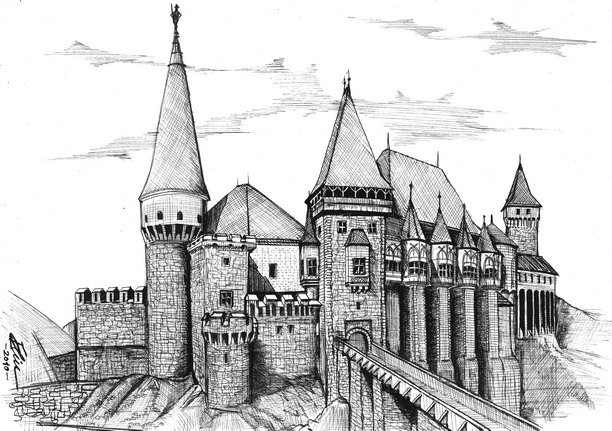
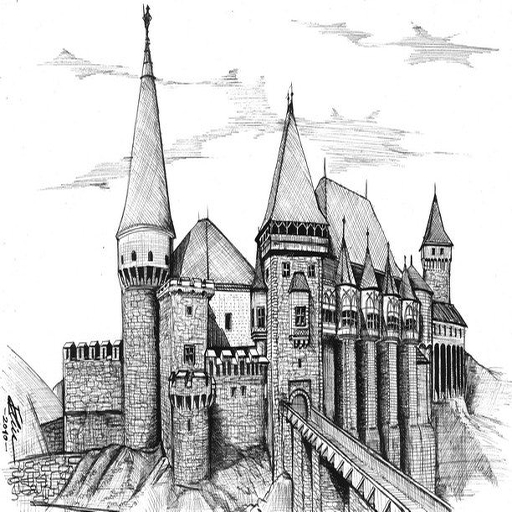
Bugfix and added graphics Replaced all sprite sheets Fixed polling error Attempted to add background picture, TODO!

diff --git a/Simple Frame/main.cpp b/Simple Frame/main.cpp
@@ -7,40 +7,38 @@
 #include "InputHandler.h"
 #include "Player.h"
 
-static const unsigned int WINDOW_WIDTH  = 1420;
-static const unsigned int WINDOW_HEIGHT = 805;
-
-
-
-
+static const unsigned int WINDOW_WIDTH  = 512;
+static const unsigned int WINDOW_HEIGHT = 512;
 
 
 int main()
 {
 		// ----- INITIALIZE ----- //
 
-		sf::Sprite image(ResourceManager::getTexture("image.jpg"));
-		sf::FloatRect imageSize = image.getLocalBounds();
+		// Create a window
+		sf::RenderWindow window(sf::VideoMode(WINDOW_WIDTH, WINDOW_HEIGHT), "<generic window name>");
+		window.setFramerateLimit(144);
+		window.setVerticalSyncEnabled(true);
+
+		sf::Sprite backgroundImage(ResourceManager::getTexture("image.jpg"));
+		sf::FloatRect imageSize = backgroundImage.getLocalBounds();
 		int input = 0;
 		InputHandler inputHandler;
 		Player player;
 
-		// Create a window
-		sf::RenderWindow window(sf::VideoMode(WINDOW_WIDTH, WINDOW_HEIGHT), "<generic window name>");
-    
-
     while (window.isOpen())
     {
         sf::Event event;
-        while (window.pollEvent(event))
-        {
+		while (window.pollEvent(event)){}
 
 			// ----- MAIN LOOP ----- //
 
 			// Check for termination, exit loop if true
-			if (event.type == sf::Event::Closed || input == Input::ESCAPE)
-                window.close();
-
+			if (event.type == sf::Event::Closed || input == InputHandler::Input::ESCAPE)
+			{
+				window.close();
+			}
+                
 			// Check for input
 			input = inputHandler.update();
 
@@ -48,9 +46,11 @@ int main()
 			player.update(input);
 
 
-        }
 
         window.clear();
+
+		// Draw background
+		window.draw(backgroundImage);
 
 		// Draw player
 		player.draw(&window);

diff --git a/Simple Frame/InputHandler.cpp b/Simple Frame/InputHandler.cpp
@@ -16,48 +16,49 @@ InputHandler::~InputHandler()
 // Check and handle keyboard input
 int InputHandler::update()
 {
-	int input = Input::NONE;
+	// Reset input
+	int input = InputHandler::Input::NONE;
 
 	std::string dbgout;
-	if(sf::Keyboard::isKeyPressed(sf::Keyboard::Left))
+	if (sf::Keyboard::isKeyPressed(sf::Keyboard::A))
 	{
-		input += Input::LEFT;
+		input += InputHandler::Input::LEFT;
 		dbgout += "LEFT ";
 	}
 
-	if(sf::Keyboard::isKeyPressed(sf::Keyboard::Right))
+	if (sf::Keyboard::isKeyPressed(sf::Keyboard::D))
 	{
-		input += Input::RIGHT;
+		input += InputHandler::Input::RIGHT;
 		dbgout += "RIGHT ";
 	}
 
-	if(sf::Keyboard::isKeyPressed(sf::Keyboard::Return))
+	if (sf::Keyboard::isKeyPressed(sf::Keyboard::Return))
 	{
-		input += Input::CONFIRM;
+		input += InputHandler::Input::CONFIRM;
 		dbgout += "CONFIRM ";
 	}
 	
-	if(sf::Keyboard::isKeyPressed(sf::Keyboard::Escape))
+	if (sf::Keyboard::isKeyPressed(sf::Keyboard::Escape))
 	{
-		input += Input::ESCAPE;
+		input += InputHandler::Input::ESCAPE;
 		dbgout += "ESCAPE ";
 	}
 
-	if(sf::Keyboard::isKeyPressed(sf::Keyboard::Space))
+	if (sf::Keyboard::isKeyPressed(sf::Keyboard::Space))
 	{
-		input += Input::SPACE;
+		input += InputHandler::Input::SPACE;
 		dbgout += "SPACE ";
 	}
 
-	if(sf::Keyboard::isKeyPressed(sf::Keyboard::Up))
+	if (sf::Keyboard::isKeyPressed(sf::Keyboard::W))
 	{
-		input += Input::UP;
+		input += InputHandler::Input::UP;
 		dbgout += "UP ";
 	}
 
 	if(sf::Keyboard::isKeyPressed(sf::Keyboard::Down))
 	{
-		input += Input::DOWN;
+		input += InputHandler::Input::DOWN;
 		dbgout += "DOWN ";
 	}
 

diff --git a/Simple Frame/Player.cpp b/Simple Frame/Player.cpp
@@ -3,10 +3,10 @@
 #include "ResourceManager.h"
 
 
-const float walkSpeed = 6;
-const float jumpSpeed = -24;
-static const float gravity = 1.1;
-static const float terminalVelocity = 15;
+const float walkSpeed = 1.5;
+const float jumpSpeed = -6;
+static const float gravity = 0.2;
+static const float terminalVelocity = 3;
 static const sf::Vector2f startingPosition = sf::Vector2f(50.0, 50.0);
 
 
@@ -28,15 +28,25 @@ Player::~Player()
 
 void Player::update(int input)
 {
+
+
+	// Jumping
+	if ((input & InputHandler::Input::SPACE) && (isJumping == false))
+	{
+		mVelocity.y = jumpSpeed;
+		isJumping = true;
+	}
+
+
 	// Walk left
-	if (input == Input::LEFT)
+	if (input & InputHandler::Input::LEFT)
 	{
 		mVelocity.x = -walkSpeed;
 		currentAnimation = &walkLeft;
 	}
 
 	// Walk right
-	else if (input == Input::RIGHT)
+	else if (input & InputHandler::Input::RIGHT)
 	{
 		mVelocity.x = walkSpeed;
 		currentAnimation = &walkRight;
@@ -57,13 +67,6 @@ void Player::update(int input)
 	}
 
 
-
-	// Jumping
-	if ((input == Input::SPACE) && (isJumping == false))
-	{
-		mVelocity.y = jumpSpeed;
-		isJumping = true;
-	}
 
 	// Gravity & Terminal velocity
 	mVelocity.y += gravity;

diff --git a/Simple Frame/InputHandler.h b/Simple Frame/InputHandler.h
@@ -3,19 +3,6 @@
 
 #include <string>
 
-
-enum Input
-	{
-		NONE    = 0,
-		LEFT    = 1 << 1,
-		RIGHT   = 1 << 2,
-		CONFIRM = 1 << 3,
-		ESCAPE  = 1 << 4,
-		SPACE   = 1 << 5,
-		UP      = 1 << 6,
-		DOWN    = 1 << 7,
-};
-
 class InputHandler
 
 {
@@ -27,6 +14,17 @@ public:
 	int updateGlobal(int input);
 	int updatePlayer(int input);
 
+	enum Input
+	{
+		NONE = 0,
+		LEFT = 1 << 1,
+		RIGHT = 1 << 2,
+		CONFIRM = 1 << 3,
+		ESCAPE = 1 << 4,
+		SPACE = 1 << 5,
+		UP = 1 << 6,
+		DOWN = 1 << 7,
+	};
 };
 
 #endif	// _INPUT_HANDLER_
